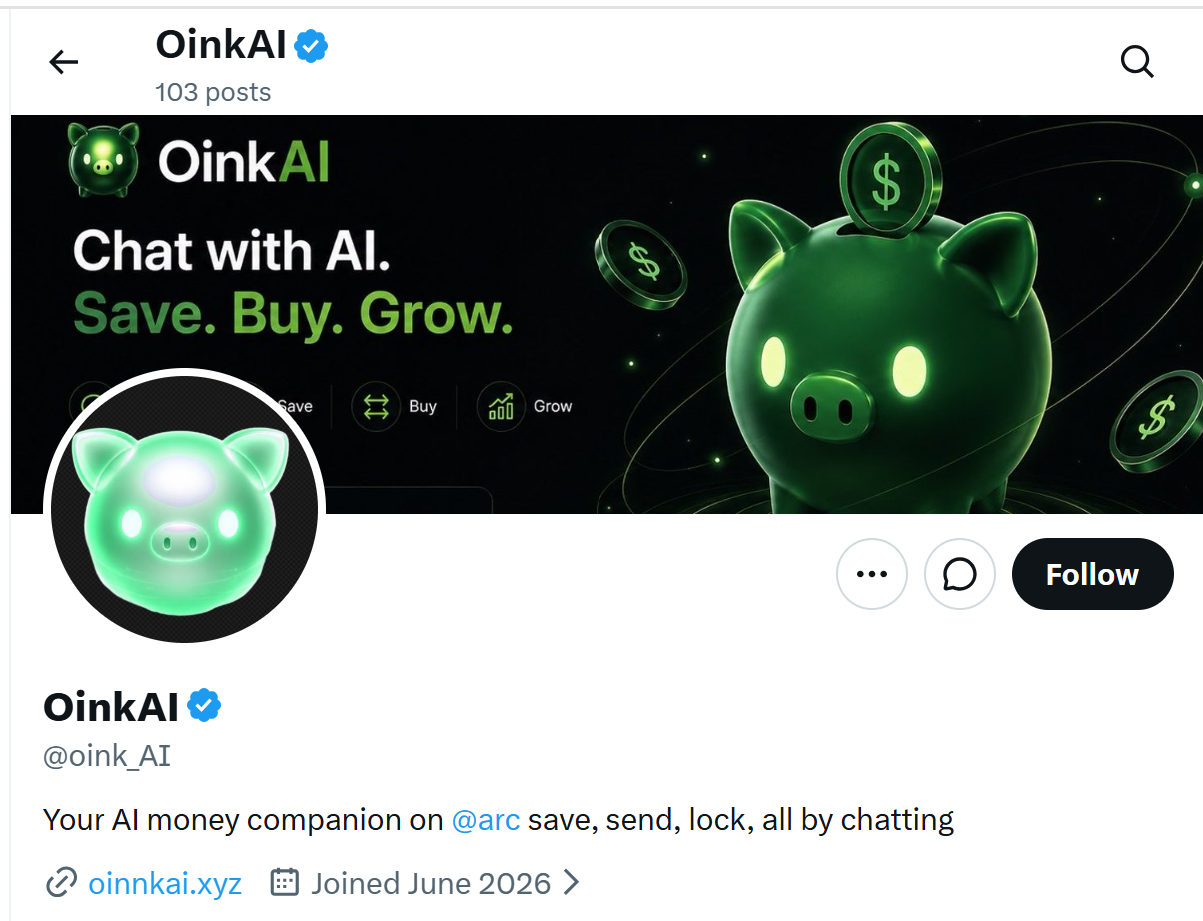
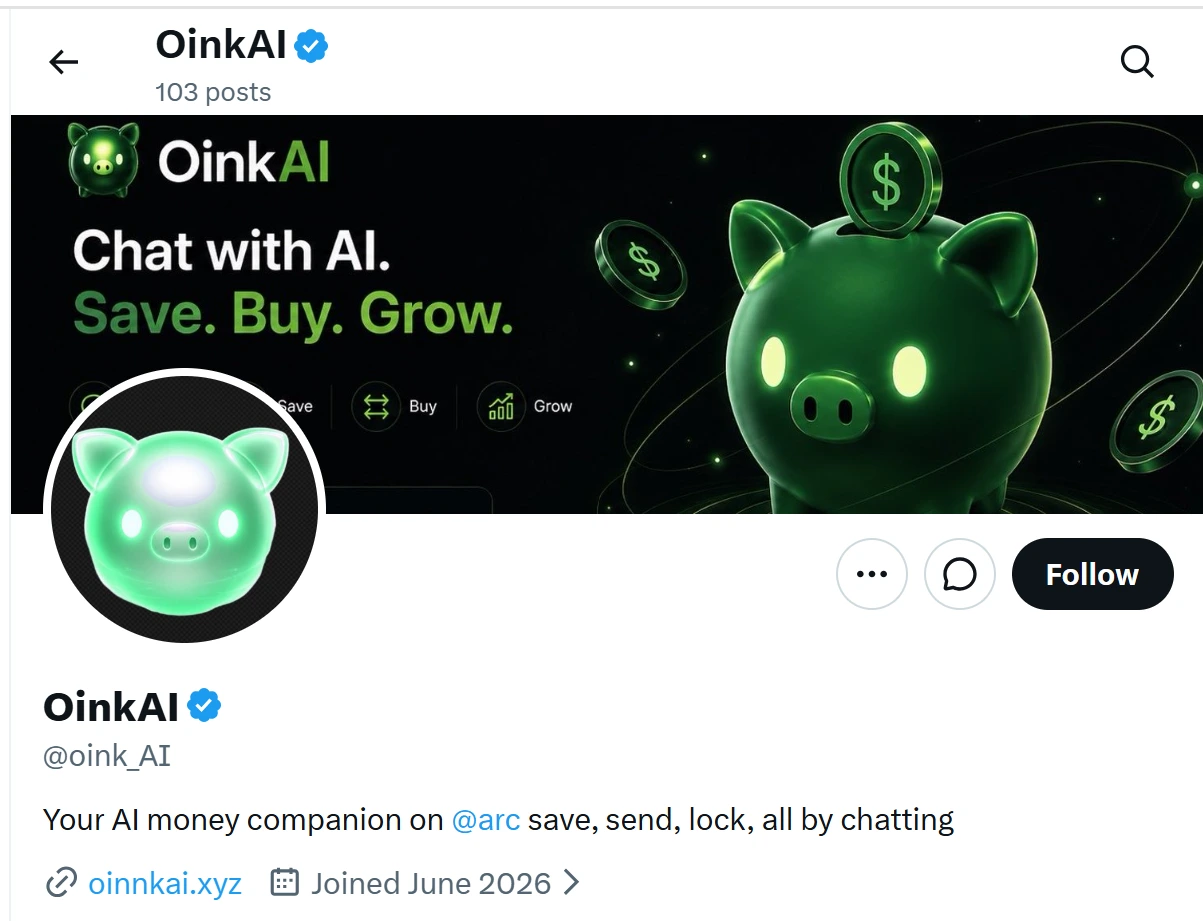
Landing performance: lighter images, simpler shadows, animation tweaks

diff --git a/src/components/landing/CoreIllustrations.tsx b/src/components/landing/CoreIllustrations.tsx
@@ -1,3 +1,5 @@
+import { LoopWhenVisible } from "./motion";
+
 /**
  * CSS/SVG illustrations for the Section G cards. Example data only, so both
  * are hidden from assistive tech.
@@ -13,7 +15,10 @@ const locks = [
 /** Mini dashboard: active locks with progress and days remaining. */
 export function LocksList() {
   return (
-    <div aria-hidden="true" className="w-full max-w-[340px] space-y-3 rounded-[18px] bg-white p-4 shadow-lg shadow-ink/5">
+    <div
+      aria-hidden="true"
+      className="w-full max-w-[340px] space-y-3 rounded-[18px] bg-white p-4 shadow-lg shadow-ink/5"
+    >
       <div className="flex items-baseline justify-between px-1">
         <span className="text-sm font-semibold text-ink">Active locks</span>
         <span className="text-xs text-muted-grey">2,250 USDC</span>
@@ -25,7 +30,10 @@ export function LocksList() {
             <span className="text-xs text-ink/80">{l.amount}</span>
           </div>
           <div className="mt-2 h-1.5 overflow-hidden rounded-full bg-ink/10">
-            <div className="h-full rounded-full bg-brand-dark" style={{ width: `${l.progress}%` }} />
+            <div
+              className="h-full rounded-full bg-brand-dark"
+              style={{ width: `${l.progress}%` }}
+            />
           </div>
           <p className="mt-1.5 text-[11px] text-muted-grey">{l.left}</p>
         </div>
@@ -42,25 +50,32 @@ export function LockRing() {
 
   return (
     <div aria-hidden="true" className="relative h-[220px] w-[220px]">
-      {/* Outer dial: transform-only loop, paused for reduced motion. */}
-      <svg
-        viewBox="0 0 220 220"
-        className="absolute inset-0 h-full w-full animate-[spin_24s_linear_infinite] motion-reduce:animate-none"
-      >
+      {/* Outer dial: transform-only loop, paused off-screen and for reduced motion. */}
+      <LoopWhenVisible className="absolute inset-0 animate-[spin_24s_linear_infinite] motion-reduce:animate-none">
+        <svg viewBox="0 0 220 220" className="h-full w-full">
+          <circle
+            cx="110"
+            cy="110"
+            r="104"
+            fill="none"
+            stroke="var(--brand-green-deep)"
+            strokeOpacity="0.35"
+            strokeWidth="2"
+            strokeDasharray="2 10"
+            strokeLinecap="round"
+          />
+        </svg>
+      </LoopWhenVisible>
+      <svg viewBox="0 0 220 220" className="absolute inset-0 h-full w-full -rotate-90">
         <circle
           cx="110"
           cy="110"
-          r="104"
+          r={r}
           fill="none"
-          stroke="var(--brand-green-deep)"
-          strokeOpacity="0.35"
-          strokeWidth="2"
-          strokeDasharray="2 10"
-          strokeLinecap="round"
+          stroke="var(--brand-black)"
+          strokeOpacity="0.08"
+          strokeWidth="14"
         />
-      </svg>
-      <svg viewBox="0 0 220 220" className="absolute inset-0 h-full w-full -rotate-90">
-        <circle cx="110" cy="110" r={r} fill="none" stroke="var(--brand-black)" strokeOpacity="0.08" strokeWidth="14" />
         <circle
           cx="110"
           cy="110"

diff --git a/src/components/ui/radial-orbital-timeline.tsx b/src/components/ui/radial-orbital-timeline.tsx
@@ -55,13 +55,26 @@ export default function RadialOrbitalTimeline({
   const nodeSize = radius < 150 ? 44 : 56;
   const iconSize = radius < 150 ? 18 : 24;
 
+  // The rotation re-renders every 50ms, so only run it while the orbit is on
+  // (or near) screen; otherwise it keeps the main thread busy during scroll.
+  const [onScreen, setOnScreen] = useState(false);
   useEffect(() => {
-    if (!autoRotate) return;
+    const el = containerRef.current;
+    if (!el) return;
+    const io = new IntersectionObserver(([entry]) => setOnScreen(entry.isIntersecting), {
+      rootMargin: "200px",
+    });
+    io.observe(el);
+    return () => io.disconnect();
+  }, []);
+
+  useEffect(() => {
+    if (!autoRotate || !onScreen) return;
     const timer = setInterval(() => {
       setRotationAngle((prev) => Number(((prev + 0.3) % 360).toFixed(3)));
     }, 50);
     return () => clearInterval(timer);
-  }, [autoRotate]);
+  }, [autoRotate, onScreen]);
 
   const handleContainerClick = (e: React.MouseEvent<HTMLDivElement>) => {
     if (e.target === containerRef.current || e.target === orbitRef.current) {
@@ -143,9 +156,10 @@ export default function RadialOrbitalTimeline({
           className="pointer-events-none absolute z-10 flex items-center justify-center"
           style={{ width: coreSize, height: coreSize }}
         >
+          {/* Soft glow as a gradient rather than a large blur filter. */}
           <div
-            className="absolute rounded-full bg-accent/15 blur-3xl"
-            style={{ width: coreSize * 1.6, height: coreSize * 1.6 }}
+            className="absolute rounded-full bg-[radial-gradient(closest-side,color-mix(in_oklab,var(--accent)_15%,transparent),transparent)]"
+            style={{ width: coreSize * 2.2, height: coreSize * 2.2 }}
           />
           <div
             className="absolute animate-ping rounded-full border border-accent/30 opacity-70"

diff --git a/src/components/landing/motion.tsx b/src/components/landing/motion.tsx
@@ -1,5 +1,5 @@
-import type { CSSProperties, ReactNode } from "react";
-import { motion, useReducedMotion, type HTMLMotionProps, type Variants } from "motion/react";
+import { useRef, type CSSProperties, type ReactNode } from "react";
+import { motion, useInView, useReducedMotion, type HTMLMotionProps, type Variants } from "motion/react";
 
 import { cn } from "@/lib/utils";
 
@@ -157,6 +157,29 @@ export function Enter({
   );
 }
 
+/**
+ * Wrapper for an infinite CSS animation (`className` carries the animate-*
+ * utility). The animation only runs while the element is near the viewport,
+ * so off-screen loops cost nothing while the page scrolls.
+ */
+export function LoopWhenVisible({
+  className,
+  style,
+  children,
+}: {
+  className?: string;
+  style?: CSSProperties;
+  children?: ReactNode;
+}) {
+  const ref = useRef<HTMLDivElement>(null);
+  const visible = useInView(ref, { margin: "200px" });
+  return (
+    <div ref={ref} className={className} style={{ animationPlayState: visible ? "running" : "paused", ...style }}>
+      {children}
+    </div>
+  );
+}
+
 /** Gentle idle bob (CSS). Off below md and under reduced motion, as in Revio. */
 export function Float({
   slow = false,
@@ -168,8 +191,8 @@ export function Float({
   children: ReactNode;
 }) {
   return (
-    <div className={cn(slow ? "md:animate-float-card-slow" : "md:animate-float-card", className)}>
+    <LoopWhenVisible className={cn(slow ? "md:animate-float-card-slow" : "md:animate-float-card", className)}>
       {children}
-    </div>
+    </LoopWhenVisible>
   );
 }

diff --git a/src/components/landing/HeroCards.tsx b/src/components/landing/HeroCards.tsx
@@ -10,10 +10,10 @@ export function SavingsCard() {
   return (
     <div
       aria-hidden="true"
-      className="relative aspect-[395/257] w-full overflow-hidden rounded-[20px] bg-charcoal p-6 text-white shadow-2xl shadow-ink/60 sm:w-[395px]"
+      className="relative aspect-[395/257] w-full overflow-hidden rounded-[20px] bg-charcoal p-6 text-white shadow-xl shadow-ink/50 sm:w-[395px]"
     >
       {/* Sheen */}
-      <div className="pointer-events-none absolute -left-16 -top-24 h-64 w-64 rounded-full bg-white/10 blur-3xl" />
+      <div className="pointer-events-none absolute -left-16 -top-24 h-64 w-64 rounded-full bg-[radial-gradient(closest-side,color-mix(in_oklab,var(--brand-white)_10%,transparent),transparent)]" />
       <div className="pointer-events-none absolute inset-0 bg-[linear-gradient(115deg,transparent_55%,color-mix(in_oklab,var(--brand-white)_7%,transparent)_70%,transparent_85%)]" />
 
       <div className="relative flex h-full flex-col justify-between">
@@ -56,7 +56,7 @@ export function BalanceCard() {
   return (
     <div
       aria-hidden="true"
-      className="w-full overflow-hidden rounded-[20px] bg-white text-ink shadow-2xl shadow-ink/60 sm:w-[307px]"
+      className="w-full overflow-hidden rounded-[20px] bg-white text-ink shadow-xl shadow-ink/50 sm:w-[307px]"
     >
       <div className="flex items-center gap-3 bg-brand-light/25 px-4 py-3">
         <span className="flex h-9 w-9 items-center justify-center rounded-lg bg-white">

diff --git a/src/components/landing/Roadmap.tsx b/src/components/landing/Roadmap.tsx
@@ -3,7 +3,7 @@ import { BadgeCheck, Brain, Mail, Repeat, Sparkles, TrendingUp } from "lucide-re
 import { PigOrb } from "@/components/PigOrb";
 import RadialOrbitalTimeline, { type TimelineItem } from "@/components/ui/radial-orbital-timeline";
 import { Container } from "./Container";
-import { FadeUp, Reveal } from "./motion";
+import { FadeUp, LoopWhenVisible, Reveal } from "./motion";
 
 const roadmap: TimelineItem[] = [
   {
@@ -97,7 +97,13 @@ export function Roadmap() {
         <FadeUp delay={0.2} y={40} className="mt-4">
           <RadialOrbitalTimeline
             timelineData={roadmap}
-            center={<PigOrb className="h-full w-full" />}
+            center={
+              // Same bob as PigOrb's own float, but transform-only (its built-in
+              // loop animates a drop-shadow filter, which repaints every frame).
+              <LoopWhenVisible className="h-full w-full animate-float motion-reduce:animate-none">
+                <PigOrb float={false} className="h-full w-full" />
+              </LoopWhenVisible>
+            }
             className="h-[34rem] sm:h-[31rem] md:h-[37rem] lg:h-[44rem]"
           />
         </FadeUp>

diff --git a/src/components/landing/Navbar.tsx b/src/components/landing/Navbar.tsx
@@ -21,7 +21,7 @@ export function scrollToSection(id: string) {
 }
 
 /**
- * Section A. Fixed; transparent at the top, then a blurred ink bar once the
+ * Section A. Fixed; transparent at the top, then a solid ink bar once the
  * page has scrolled past 24px (Revio's threshold and 300ms transition).
  */
 export function Navbar({ onLaunchApp }: { onLaunchApp: () => void }) {
@@ -50,7 +50,7 @@ export function Navbar({ onLaunchApp }: { onLaunchApp: () => void }) {
       className={cn(
         "fixed inset-x-0 top-0 z-50 w-full border-b transition-[padding,background-color,border-color] duration-300",
         scrolled
-          ? "border-white/10 bg-ink/90 py-4 backdrop-blur-md"
+          ? "border-white/10 bg-ink/95 py-4"
           : "border-transparent pt-6 md:pt-10",
       )}
     >

diff --git a/src/components/landing/Footer.tsx b/src/components/landing/Footer.tsx
@@ -56,7 +56,7 @@ export function Footer({ onLaunchApp }: { onLaunchApp: () => void }) {
               </p>
             </div>
             <div className="flex items-center gap-2 text-sm text-white/60">
-              <img src="/arc-logo.png" alt="" className="h-6 w-auto object-contain" />
+              <img src="/arc-logo.png" alt="" width={876} height={894} loading="lazy" decoding="async" className="h-6 w-auto object-contain" />
               Powered by Arc
             </div>
           </div>

diff --git a/src/components/landing/ResourcePreviews.tsx b/src/components/landing/ResourcePreviews.tsx
@@ -41,8 +41,8 @@ export function XProfilePreview() {
     <img
       src="/x-profile.webp"
       alt="OinkAI's profile on X"
-      width={1215}
-      height={918}
+      width={1203}
+      height={921}
       loading="lazy"
       decoding="async"
       className={`h-auto w-[78%] rotate-3 rounded-2xl shadow-2xl shadow-brand-light/15 group-hover:-translate-y-2 group-hover:rotate-0 ${lift}`}

diff --git a/src/components/landing/BuiltOn.tsx b/src/components/landing/BuiltOn.tsx
@@ -21,7 +21,7 @@ const tiles: Tile[] = [
   {
     id: "arc",
     label: "Arc",
-    mark: <img src="/arc-logo.png" alt="" className="h-8 w-auto object-contain md:h-10" />,
+    mark: <img src="/arc-logo.png" alt="" width={876} height={894} loading="lazy" decoding="async" className="h-8 w-auto object-contain md:h-10" />,
     pos: { m: [20, 24], d: [15, 24] },
     at: 0.45,
   },
